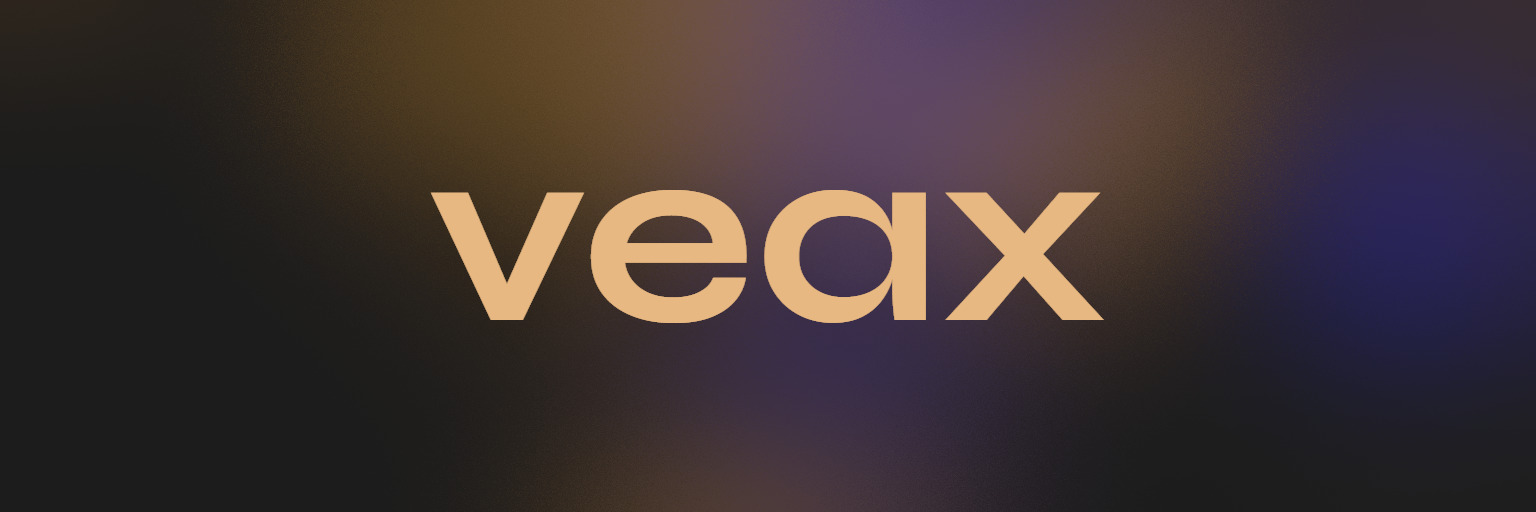
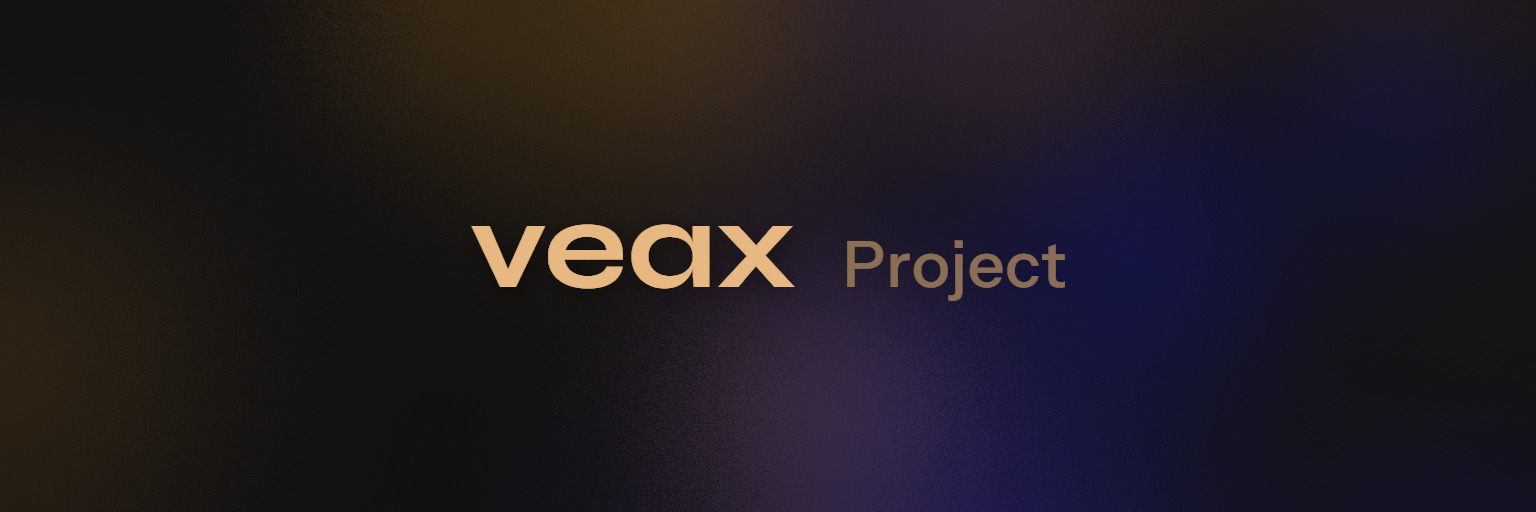
La bannière porte le verrou complet, depuis le template sauvegardé
Deux corrections à la version précédente.

D'abord la source. Elle ne reprenait que les trois couleurs, alors que le
template gardé dans l'éditeur s'écarte nettement des valeurs par défaut :
bruit 1 (au lieu de 0,50), obscurcir 0,70 (0,40), flou 9,5 (12), taille du
fond 0,84 (1), intégration 1 (0,35), halo éteint. C'est ce qui donne la
profondeur de l'avatar, et c'est ce qui manquait.

Ensuite le nom. Le logotype de veax.tr est composé en DEUX polices, et les
proportions ne sont pas inventées — elles sont relevées sur le site en ligne
puis vérifiées au centième :

    veax      Syne 700, chasse -0,05 em
    Project   Instrument Sans 500, chasse +0,02 em, corps 0,52x,
              écart 0,375 em, aligné sur la ligne de base

L'atténuation du sous-mot vient du même endroit : sur le site il porte
--gray-2 à 5,19:1 quand la marque porte --ink à 16,60:1, soit 31 % du
contraste. Sur fond sombre, « plus gris » se traduit par « moins opaque ».

Taille ramenée de 0,42 à 0,24 : le verrou occupe 38,5 % du cadre au lieu de
84 %. Jugé à 629 px, la largeur à laquelle GitHub affiche réellement l'image,
et non à 1536 où tout paraît grand.

À noter, mesuré : avec l'obscurcissement à 0,70 le bord tombe à #201A1B, soit
1,10:1 contre le fond du thème sombre de GitHub. L'image se fond dans la page
au lieu de s'y découper. C'est le prix du template, assumé.

diff --git a/README.md b/README.md
@@ -1,4 +1,4 @@
-<img alt="veax — a browser, a platform, a few tools. Independent developer, Istanbul, Türkiye." src="https://raw.githubusercontent.com/veax-project/veax-project/main/banner.jpg" width="100%">
+<img alt="veax Project — a browser, a platform, a few tools. Independent developer, Istanbul, Türkiye." src="https://raw.githubusercontent.com/veax-project/veax-project/main/banner.jpg" width="100%">
 
 I'm **Yaşar**. I build under the name **veax**, on my own, from Istanbul.
 
